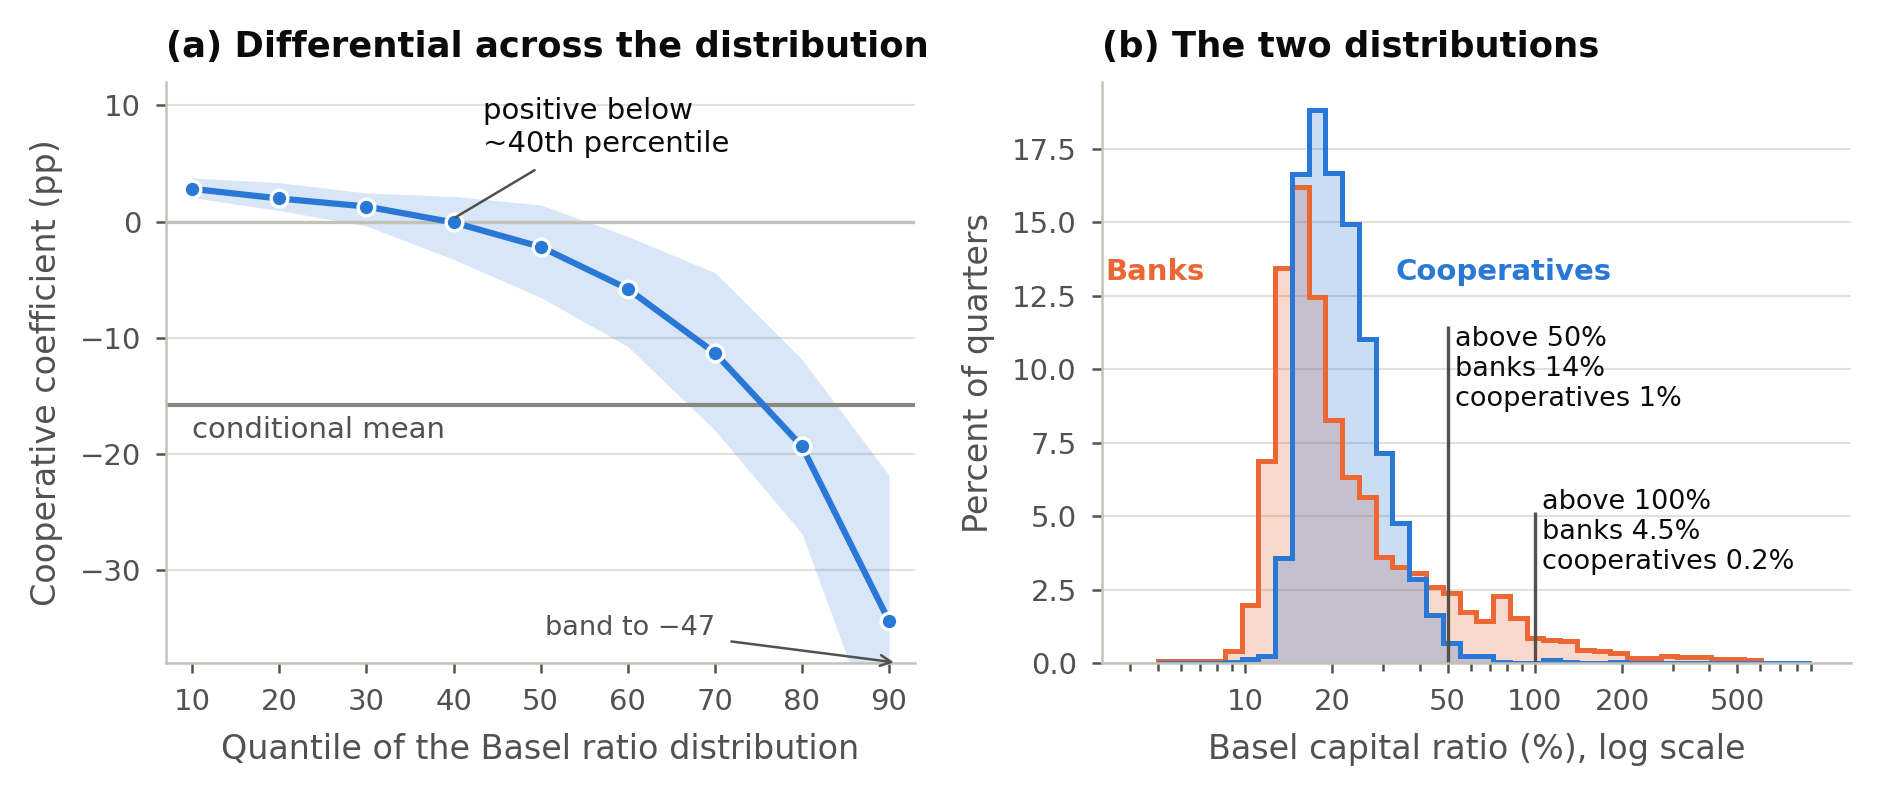
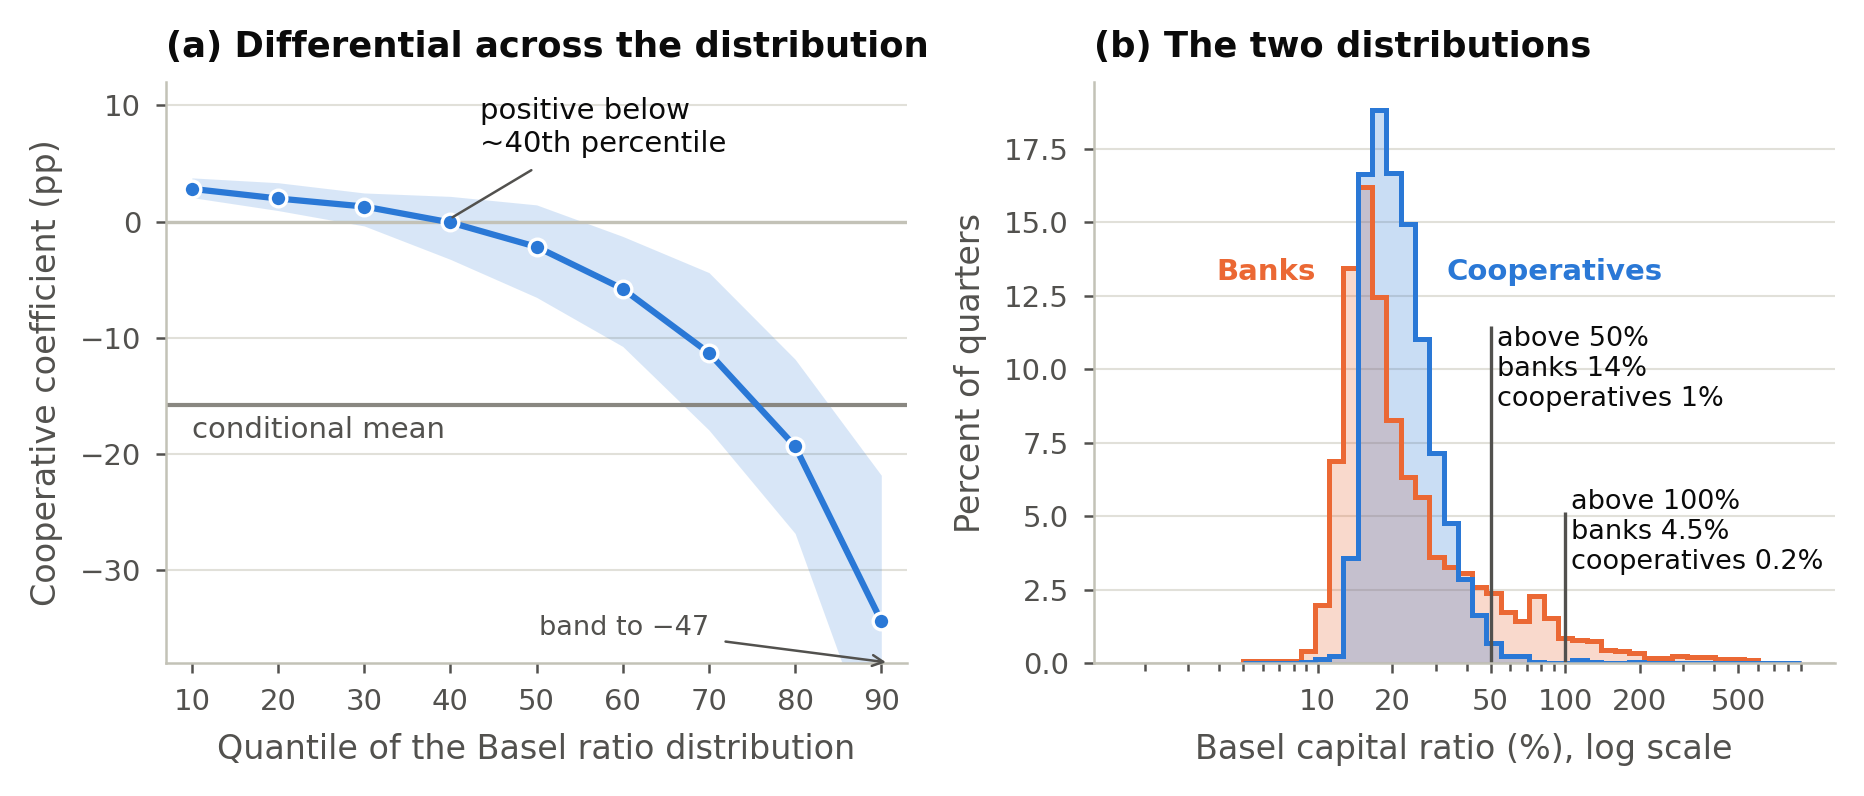
Figure 4(b): Banks midway between the previous two positions, axis range as before

diff --git a/make_figures.py b/make_figures.py
@@ -356,8 +356,7 @@ def fig_capital(l2, txt):
     b.set_ylabel("Percent of quarters")
     b.set_title("(b) The two distributions")
     b.text(33, top * 0.66, "Cooperatives", fontsize=7, color=COOP, fontweight="bold")
-    b.set_xlim(3.2, b.get_xlim()[1])
-    b.text(3.3, top * 0.66, "Banks", fontsize=7, color=BANK, fontweight="bold", ha="left")
+    b.text(3.9, top * 0.66, "Banks", fontsize=7, color=BANK, fontweight="bold", ha="left")
     ygrid(b)
     fig.tight_layout(w_pad=1.5)
     save(fig, "fig12_capital_quantiles.png")
